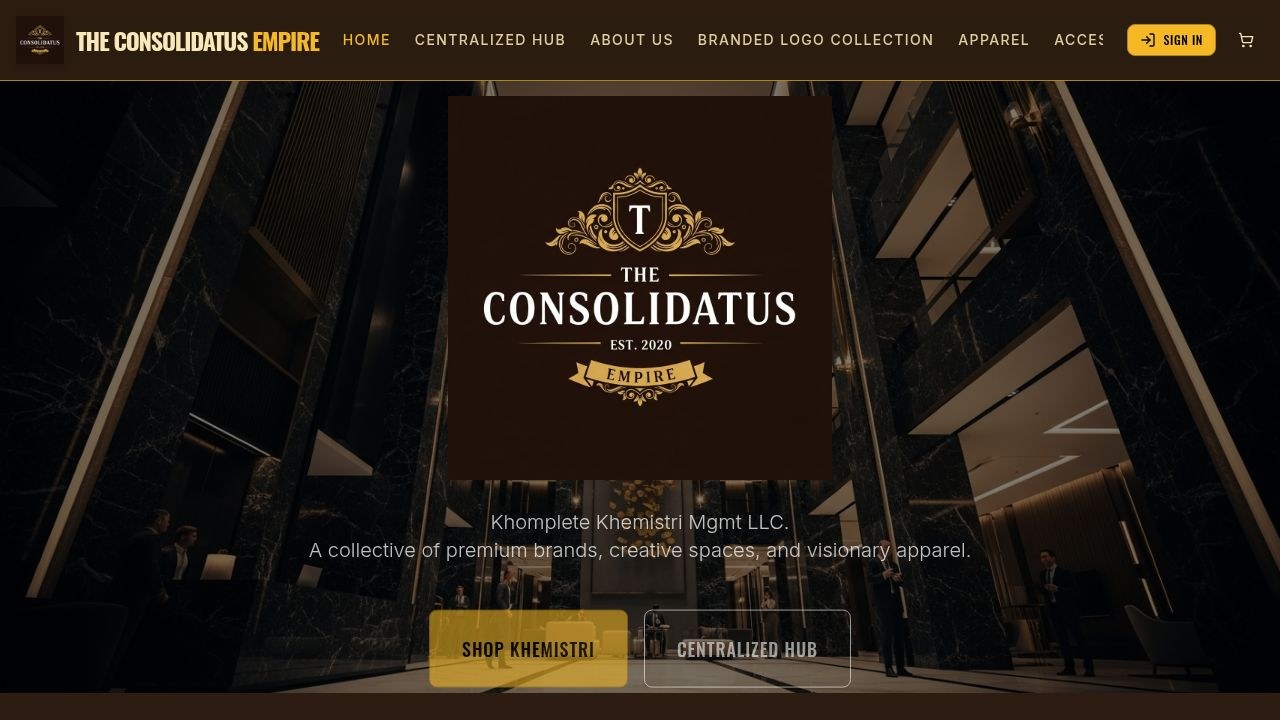
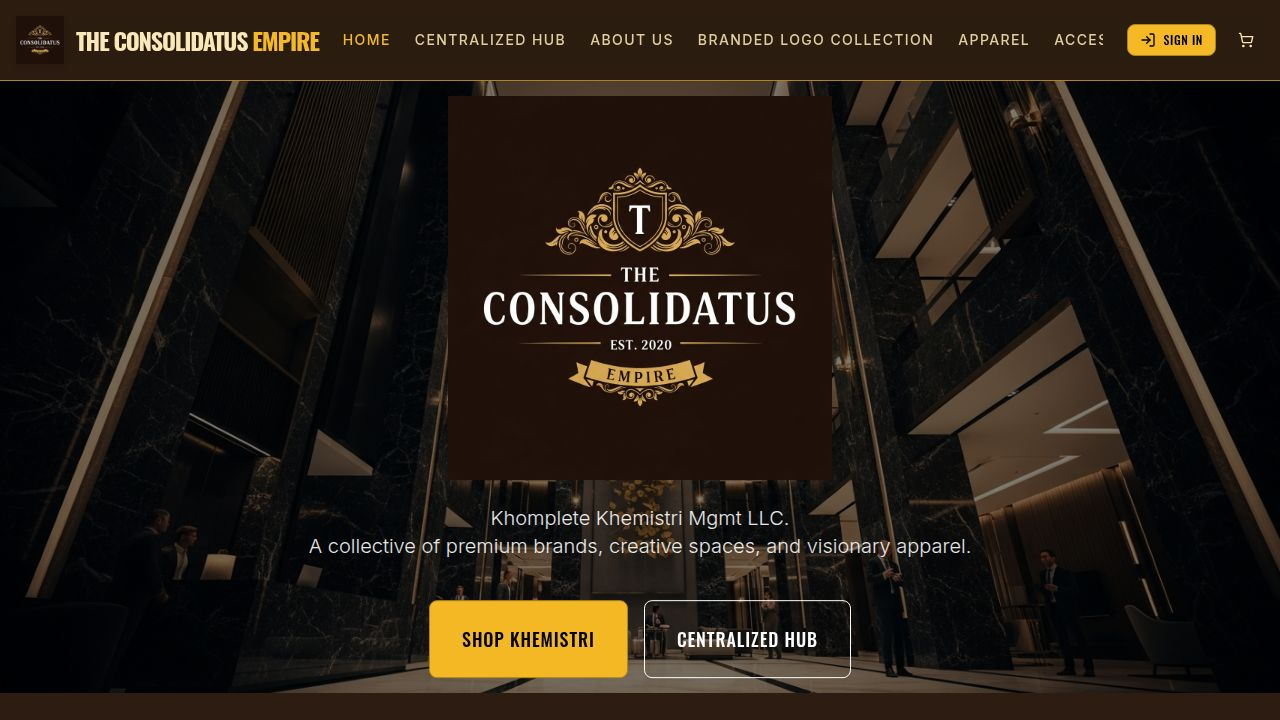
Fix poetry price display (show dollars not cents)

Changed region(s): [[0.3125, 0.825, 0.6562, 0.9778], [0.25, 0.7028, 0.75, 0.7944]]

diff --git a/client/src/pages/Poetry.tsx b/client/src/pages/Poetry.tsx
@@ -219,7 +219,7 @@ export default function Poetry() {
                       <CardContent className="flex-grow p-4">
                         <h3 className="font-display text-lg font-bold mb-2">{product.title}</h3>
                         <p className="text-sm text-muted-foreground mb-3 line-clamp-2">{product.description}</p>
-                        <p className="text-xl font-bold text-primary">${(product.price / 100).toFixed(2)}</p>
+                        <p className="text-xl font-bold text-primary" data-testid={`text-price-poetry-${product.id}`}>${Number(product.price).toFixed(2)}</p>
                       </CardContent>
                       <CardFooter className="p-4 pt-0">
                         <Button 